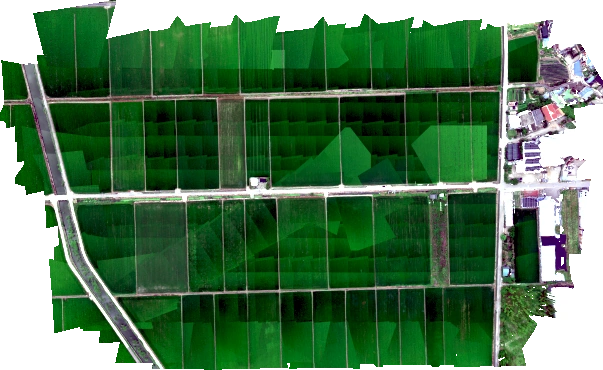
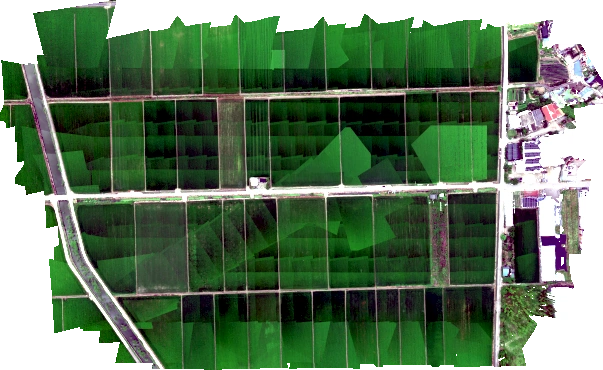
RGB 밝기 조정 영상 연결과 시안 일치

Changed region(s): [[0.0, 0.0297, 1.0, 1.0], [0.0896, 0.6541, 0.1194, 0.7135], [0.9552, 0.4162, 0.9851, 0.4459]]

diff --git a/drone/viewer/app.js b/drone/viewer/app.js
@@ -7,7 +7,8 @@ const $ = (s) => document.querySelector(s);
 const esc = (v) => String(v ?? '').replace(/[&<>"']/g, (c) => ({ '&': '&amp;', '<': '&lt;', '>': '&gt;', '"': '&quot;', "'": '&#39;' })[c]);
 const KIND = { RGB: '광학', RE: '다분광', NDVI: 'NDVI' };
 const kindLabel = o => o?.derivedFromMultispectral ? 'RGB 대체' : KIND[o?.kind];
-const displayUrl = (url, o) => { const version = o.kind === 'RGB' && o.derivedFromMultispectral ? `${o.displayVersion || 'rgb'}-brightness-20261029-v2` : o.displayVersion; return version ? `${url}${url.includes('?') ? '&' : '?'}display=${encodeURIComponent(version)}` : url; };
+const displayUrl = (url, o) => { const version = o.kind === 'RGB' && o.derivedFromMultispectral ? `${o.displayVersion || 'rgb'}-brightness-20261029-v3` : o.displayVersion; return version ? `${url}${url.includes('?') ? '&' : '?'}display=${encodeURIComponent(version)}` : url; };
+const approvedRgbImages = {"2026-05-10-R3-RGB":{"url":"rgb_1m/2026-05-10-R3-MS-RGB-1m.webp","projection":"EPSG:32652","extent":[489462,3895201,489938,3895742]},"2026-05-10-R4-RGB":{"url":"rgb_1m/2026-05-10-R4-MS-RGB-1m.webp","projection":"EPSG:32652","extent":[489432,3895195,489940,3895711]},"2026-05-10-R5-RGB":{"url":"rgb_1m/2026-05-10-R5-MS-RGB-1m.webp","projection":"EPSG:32652","extent":[489453,3895191,489933,3895720]},"2026-06-30-R1-RGB":{"url":"rgb_1m/2026-06-30-R1-MS-RGB-1m.webp","projection":"EPSG:32652","extent":[489477,3895274,489954,3895640]},"2026-07-16-R1-RGB":{"url":"rgb_1m/2026-07-16-R1-MS-RGB-1m.webp","projection":"EPSG:32652","extent":[489489,3895269,489984,3895616]},"2026-07-16-R2-RGB":{"url":"rgb_1m/2026-07-16-R2-MS-RGB-1m.webp","projection":"EPSG:32652","extent":[489407,3895274,490010,3895644]},"2026-07-31-R1-RGB":{"url":"rgb_1m/2026-07-31-R1-MS-RGB-1m.webp","projection":"EPSG:32652","extent":[489477,3895272,489995,3895616]},"2026-07-31-R2-RGB":{"url":"rgb_1m/2026-07-31-R2-MS-RGB-1m.webp","projection":"EPSG:32652","extent":[489456,3895256,489986,3895619]},"2026-07-31-R3-RGB":{"url":"rgb_1m/2026-07-31-R3-MS-RGB-1m.webp","projection":"EPSG:32652","extent":[489477,3895298,490001,3895615]},"2026-07-31-R4-RGB":{"url":"rgb_1m/2026-07-31-R4-MS-RGB-1m.webp","projection":"EPSG:32652","extent":[489502,3895273,489956,3895622]},"2026-07-31-R5-RGB":{"url":"rgb_1m/2026-07-31-R5-MS-RGB-1m.webp","projection":"EPSG:32652","extent":[489464,3895283,489957,3895612]},"2026-09-08-R1-RGB":{"url":"rgb_1m/2026-09-08-R1-MS-RGB-1m.webp","projection":"EPSG:32652","extent":[489463,3895275,489977,3895613]},"2026-09-08-R2-RGB":{"url":"rgb_1m/2026-09-08-R2-MS-RGB-1m.webp","projection":"EPSG:32652","extent":[489452,3895244,489987,3895632]},"2026-09-08-R3-RGB":{"url":"rgb_1m/2026-09-08-R3-MS-RGB-1m.webp","projection":"EPSG:32652","extent":[489457,3895258,490011,3895624]},"2026-09-08-R4-RGB":{"url":"rgb_1m/2026-09-08-R4-MS-RGB-1m.webp","projection":"EPSG:32652","extent":[489448,3895249,489976,3895614]},"2026-09-23-R1-RGB":{"url":"rgb_1m/2026-09-23-R1-MS-RGB-1m.webp","projection":"EPSG:32652","extent":[489449,3895269,489991,3895643]},"2026-09-23-R2-RGB":{"url":"rgb_1m/2026-09-23-R2-MS-RGB-1m.webp","projection":"EPSG:32652","extent":[489428,3895275,489985,3895645]},"2026-09-23-R3-RGB":{"url":"rgb_1m/2026-09-23-R3-MS-RGB-1m.webp","projection":"EPSG:32652","extent":[489445,3895276,490024,3895639]},"2026-10-07-R1-RGB":{"url":"rgb_1m/2026-10-07-R1-MS-RGB-1m.webp","projection":"EPSG:32652","extent":[489456,3895235,490002,3895624]}};
 const S = { catalog: null, byKey: new Map(), sel: null, layer: null, source: null, gen: 0 };
 
 // ---- Drive 파일 읽기 --------------------------------------------------------------
@@ -232,7 +233,16 @@ async function select(o, { fitView = true } = {}) {
     showStaticMosaic(o, gen, o.ndviDisplay);
     return;
   }
-  if (o.staticImage) {showStaticMosaic(o, gen); return;}
+  if (o.staticImage) {
+    const sourceRgb = o.kind === 'RGB' ? o : o.kind === 'RE' ? sib.RGB : null;
+    const rgbImage = sourceRgb?.derivedFromMultispectral ? approvedRgbImages[sourceRgb.id] : null;
+    if (rgbImage) {
+      const visual = {...sourceRgb, staticImage: {...rgbImage, displayOnly:true}};
+      showStaticMosaic(visual, gen);
+      $('#sel-info').textContent = 'RGB 합성 · 밝기 조정 표시 · 다분광 RGB 대체 영상 · 표시 해상도 1m';
+    } else showStaticMosaic(o, gen);
+    return;
+  }
   const source = new ol.source.GeoTIFF({
     sources: [{ url: driveFile(o), min: 0, max: 255 }], normalize: true, convertToRGB: 'auto', interpolate: true,
     sourceOptions: { allowFullFile: false, maxRanges: 1, blockSize: 65536, cacheSize: 100 },

diff --git a/drone/viewer/index.html b/drone/viewer/index.html
@@ -15,7 +15,7 @@
 <script defer src="vendor/geotiff.js"></script>
 <script defer src="vendor/ol.js"></script>
 <script defer src="vendor/proj4.js"></script>
-<script type="module" src="app.js?v=25"></script>
+<script type="module" src="app.js?v=26"></script>
 </head>
 <body class="viewer">
 <header class="topbar">
